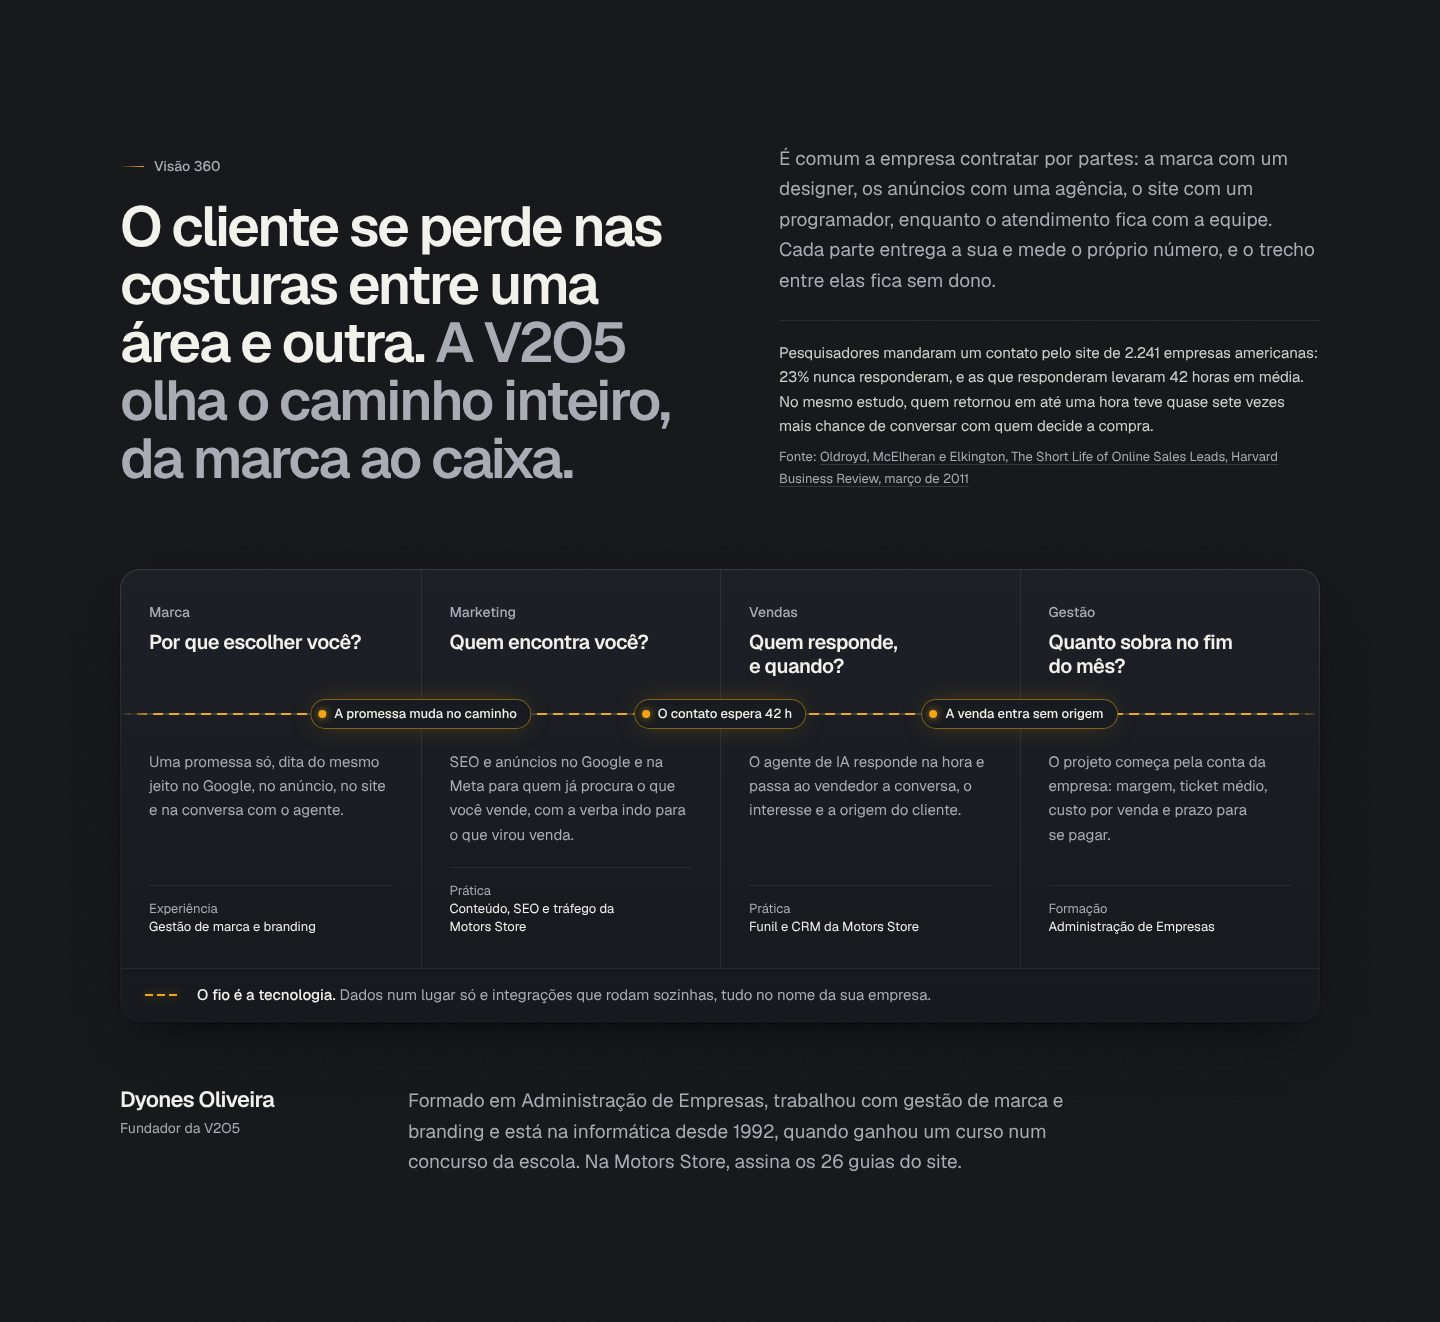
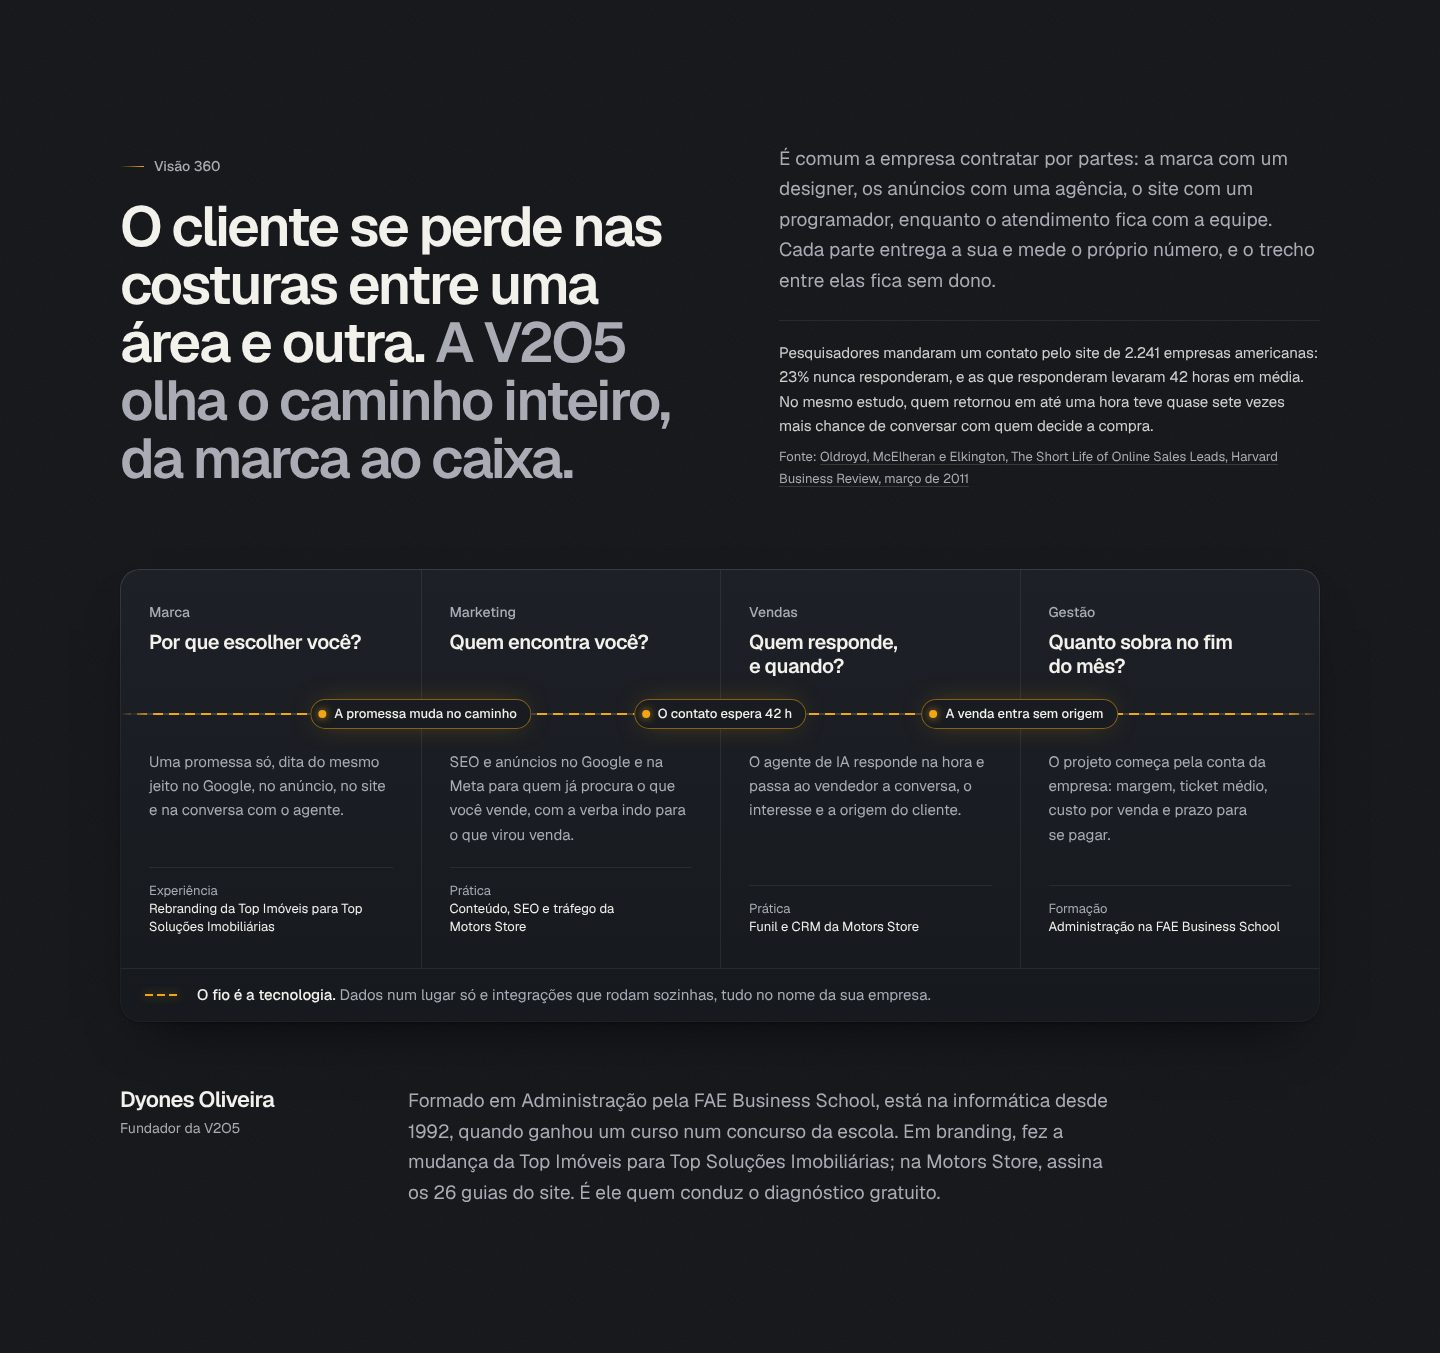
Branding a partir de R$ 1.500, FAE e o caso da Top na Visão 360
Com as respostas do Dyones: o cartão de branding ganha preço, que entra
em oferta.md. A coluna Gestão cita a formação em Administração na FAE
Business School (também como alumniOf no schema), e a coluna Marca cita
o rebranding da Top Imóveis para Top Soluções Imobiliárias. A nota do
hero, o fechamento e a página do diagnóstico passam a dizer que a
conversa é com o fundador.

Claude-Session: https://claude.ai/code/session_016U4jhnBTXDWyNvtdckLsv3

diff --git a/src/conteudo/home.ts b/src/conteudo/home.ts
@@ -17,7 +17,7 @@ export const TITULO_DA_HOME = "Coloque sua empresa no mapa e multiplique a opera
 export const HERO = {
   subtitulo:
     "Perfil no Google, SEO, anúncios, site, agente de IA e CRM num sistema só, que mostra de onde veio cada venda. Se um dia quiser sair, você leva o código, os dados e o domínio.",
-  nota: "Diagnóstico gratuito: 45 minutos de conversa e um mapa do que fazer, em até 24 horas.",
+  nota: "Diagnóstico gratuito: 45 minutos de conversa com o fundador e um mapa do que fazer, em até 24 horas.",
 };
 
 /**
@@ -131,12 +131,6 @@ export interface Servico {
   vinheta: Vinheta;
 }
 
-/**
- * Serviço do cardápio ainda sem preço na tabela: o orçamento sai do
- * diagnóstico até o Dyones fechar o valor (`memory/pendencias.md`).
- */
-export const PRECO_NO_DIAGNOSTICO = "orçamento no diagnóstico";
-
 const linha = (href: string): Servico => {
   const l = LINHAS.find((x) => x.href === href);
   if (!l) throw new Error(`Linha sem preço em oferta.md: ${href}`);
@@ -161,7 +155,7 @@ export const PILARES: { id: string; sobretitulo: string; titulo: string; frase: 
         titulo: "Branding e gestão de marca",
         frase:
           "Posicionamento, identidade visual e tom de voz, com um guia que mantém a marca igual no perfil, no site, nos anúncios e no atendimento.",
-        preco: PRECO_NO_DIAGNOSTICO,
+        preco: "a partir de R$ 1.500",
         href: "/diagnostico",
         etapa: "violeta",
         vinheta: "marca",
@@ -212,9 +206,10 @@ export const PILARES: { id: string; sobretitulo: string; titulo: string; frase: 
  * Visão 360: o cliente atravessa marca, marketing, vendas e gestão, e a venda
  * se perde nas passagens entre uma área e outra. Cada área traz a base do
  * fundador que responde por ela (formação, experiência ou prática na Motors).
- * Fatos do fundador: o que ele contou (Administração de Empresas, gestão de
- * marca e branding) e o que publicou no site antigo (curso de informática
- * ganho num concurso da escola, em 1992). O número da costura do meio vem do
+ * Fatos do fundador: o que ele contou em 09/10 (Administração na FAE
+ * Business School; rebranding da Top Imóveis para Top Soluções
+ * Imobiliárias; conduz o diagnóstico) e o que publicou no site antigo (curso
+ * de informática ganho num concurso da escola, em 1992). O número da costura do meio vem do
  * estudo da HBR em `evidencia`.
  */
 export const VISAO_360 = {
@@ -234,7 +229,7 @@ export const VISAO_360 = {
       nome: "Marca",
       pergunta: "Por que escolher você?",
       acao: "Uma promessa só, dita do mesmo jeito no Google, no anúncio, no site e na conversa com o agente.",
-      base: { tipo: "Experiência", texto: "Gestão de marca e branding" },
+      base: { tipo: "Experiência", texto: "Rebranding da Top Imóveis para Top Soluções Imobiliárias" },
     },
     {
       nome: "Marketing",
@@ -252,7 +247,7 @@ export const VISAO_360 = {
       nome: "Gestão",
       pergunta: "Quanto sobra no fim do mês?",
       acao: "O projeto começa pela conta da empresa: margem, ticket médio, custo por venda e prazo para se pagar.",
-      base: { tipo: "Formação", texto: "Administração de Empresas" },
+      base: { tipo: "Formação", texto: "Administração na FAE Business School" },
     },
   ],
   /** O que costuma romper na passagem de uma área para a seguinte. */
@@ -265,7 +260,8 @@ export const VISAO_360 = {
     nome: "Dyones Oliveira",
     papel: "Fundador da V2O5",
     texto:
-      "Formado em Administração de Empresas, trabalhou com gestão de marca e branding e está na informática desde 1992, quando ganhou um curso num concurso da escola. Na Motors Store, assina os 26 guias do site.",
+      "Formado em Administração pela FAE Business School, está na informática desde 1992, quando ganhou um curso num concurso da escola. Em branding, fez a mudança da Top Imóveis para Top Soluções Imobiliárias; na Motors Store, assina os 26 guias do site. É ele quem conduz o diagnóstico gratuito.",
+    escola: "FAE Business School",
   },
 };
 

diff --git a/tests/conteudo.test.ts b/tests/conteudo.test.ts
@@ -5,7 +5,6 @@ import {
   HERO,
   LINHAS,
   PILARES,
-  PRECO_NO_DIAGNOSTICO,
   TITULO_DA_HOME,
   VISAO_360,
 } from "@/conteudo/home";
@@ -80,15 +79,10 @@ describe("os dois pilares do H1", () => {
     for (const l of LINHAS) expect(servicos, l.titulo).toContainEqual(l);
   });
 
-  it("serviço sem linha própria diz onde vem incluso, traz preço da tabela ou está nas pendências", () => {
+  it("serviço sem linha própria diz onde vem incluso ou traz preço da tabela", () => {
     const oferta = ler("memory/context/oferta.md");
-    const pendencias = ler("memory/pendencias.md");
     for (const s of servicos.filter((s) => !LINHAS.includes(s as (typeof LINHAS)[number]))) {
-      if (s.preco === PRECO_NO_DIAGNOSTICO) {
-        // Sem preço inventado: o valor fica pendente com o Dyones até entrar em oferta.md.
-        expect(pendencias, s.titulo).toContain(s.titulo);
-        expect(s.href, s.titulo).toBe("/diagnostico");
-      } else if (/incluso em /.test(s.preco)) {
+      if (/incluso em /.test(s.preco)) {
         const linha = s.preco.split("incluso em ")[1];
         expect(LINHAS.map((l) => l.titulo), s.titulo).toContain(linha);
       } else {
@@ -101,6 +95,7 @@ describe("os dois pilares do H1", () => {
   it("o mapa traz branding, Perfil da Empresa no Google, SEO e tráfego no Google e na Meta", () => {
     const mapa = PILARES[0].servicos.map((s) => s.titulo).join(" | ");
     expect(mapa).toMatch(/Branding e gestão de marca/);
+    expect(PILARES[0].servicos[0].preco).toBe("a partir de R$ 1.500");
     expect(mapa).toMatch(/Perfil da Empresa no Google/);
     expect(mapa).toMatch(/SEO/);
     expect(mapa).toMatch(/Google e na Meta/);
@@ -116,19 +111,21 @@ describe("os dois pilares do H1", () => {
 });
 
 describe("Visão 360", () => {
-  it("o fundador aparece com o que ele contou e publicou: Administração, branding, 1992 e os guias da Motors", () => {
-    const { texto } = VISAO_360.fundador;
-    expect(texto).toMatch(/Administração de Empresas/);
-    expect(texto).toMatch(/gestão de marca e branding/);
+  it("o fundador aparece com o que ele contou e publicou: FAE, a Top, 1992, os guias e o diagnóstico", () => {
+    const { texto, escola } = VISAO_360.fundador;
+    expect(escola).toBe("FAE Business School");
+    expect(texto).toContain(`Administração pela ${escola}`);
+    expect(texto).toMatch(/Top Imóveis para Top Soluções Imobiliárias/);
     expect(texto).toMatch(/desde 1992/);
     expect(texto).toMatch(/26 guias/);
+    expect(texto).toMatch(/conduz o diagnóstico/);
     expect(ler("memory/projects/case-motors.md")).toMatch(/\| Guias publicados \| 26 \|/);
   });
 
-  it("cada área traz a base do fundador, e a formação em Administração responde pela gestão", () => {
+  it("cada área traz a base do fundador, e a formação na FAE responde pela gestão", () => {
     expect(VISAO_360.areas.map((a) => a.nome)).toEqual(["Marca", "Marketing", "Vendas", "Gestão"]);
     for (const a of VISAO_360.areas) expect(["Formação", "Experiência", "Prática"]).toContain(a.base.tipo);
-    expect(VISAO_360.areas[3].base).toEqual({ tipo: "Formação", texto: "Administração de Empresas" });
+    expect(VISAO_360.areas[3].base).toEqual({ tipo: "Formação", texto: "Administração na FAE Business School" });
     expect(VISAO_360.costuras).toHaveLength(VISAO_360.areas.length - 1);
   });
 

diff --git a/src/components/home/Fechamento.tsx b/src/components/home/Fechamento.tsx
@@ -21,7 +21,7 @@ export default function Fechamento() {
           Comece pelo diagnóstico.
         </h2>
         <p className="texto-guia mt-6 max-w-[36rem]">
-          Em 45 minutos a gente entende como a sua empresa vende hoje. Em até 24 horas você recebe um mapa do
+          Em 45 minutos de conversa com o fundador, a gente entende como a sua empresa vende hoje. Em até 24 horas você recebe um mapa do
           que fazer primeiro, com ou sem a V2O5.
         </p>
         <div className="mt-10 flex flex-wrap justify-center gap-3">

diff --git a/src/conteudo/paginas.ts b/src/conteudo/paginas.ts
@@ -105,7 +105,7 @@ export const PAGINAS: Pagina[] = [
     rota: "/diagnostico",
     titulo: "Pedir diagnóstico",
     descricao:
-      "45 minutos de conversa e um mapa do que fazer, em até 24 horas. O formulário entra na próxima etapa.",
+      "45 minutos de conversa com o fundador e um mapa do que fazer, em até 24 horas. O formulário entra na próxima etapa.",
     atualizadaEm: "2026-10-09",
     pronta: false,
   },

diff --git a/src/lib/schema.ts b/src/lib/schema.ts
@@ -49,6 +49,7 @@ export function fundador(): No {
     name: VISAO_360.fundador.nome,
     jobTitle: "Fundador",
     description: VISAO_360.fundador.texto,
+    alumniOf: { "@type": "CollegeOrUniversity", name: VISAO_360.fundador.escola },
     knowsAbout: ["Administração de empresas", "Gestão de marca", "Branding", "Marketing digital", "Automação com IA"],
     worksFor: ref(ID_DA_ORGANIZACAO),
   };

diff --git a/memory/pendencias.md b/memory/pendencias.md
@@ -13,8 +13,8 @@ Atualize ao resolver: mova a decisão para `decisoes.md` e apague daqui.
 8. Medir o preview da Vercel (PageSpeed): ele está atrás do login da Vercel. Liberar um bypass de proteção para automação ou dar ao conector acesso ao projeto `v2o5`. Ver também a molécula 3D num celular e num notebook comuns (o ambiente daqui só tem WebGL por software); com `?diagnostico` no fim da URL aparece o motivo se ela não rodar.
 9. WhatsApp e e-mail públicos para o rodapé (hoje "a confirmar").
 10. Proposta: "Pergunte ao agente" no hero, uma conversa real com o agente da V2O5 (a demonstração do próprio produto). Precisa de backend, custo de IA e aviso de privacidade; fase 2.
-11. Sobre o Dyones, para a Visão 360 e a página Sobre: instituição e ano da formação em Administração de Empresas, onde trabalhou com gestão de marca e branding, e uma foto. Confirmar também se é ele quem conduz o diagnóstico (daria força à seção).
-12. Preço de "Branding e gestão de marca" (no cardápio desde 09/10 como "orçamento no diagnóstico", link para `/diagnostico`). E SEO contínuo e Perfil da Empresa avulsos (sem site da V2O5): publicar preço próprio? Hoje aparecem como inclusos em Sites e presença. Se virarem linha, ganham página (`/branding`, `/seo`, `/perfil-da-empresa-no-google`) no mapa de páginas.
+11. Foto do Dyones para a página Sobre, a Visão 360 e a assinatura dos guias. Confirmar que a Top Soluções Imobiliárias não se opõe a ser citada (o nome aparece na Visão 360 desde 09/10).
+12. SEO contínuo e Perfil da Empresa avulsos (sem site da V2O5): publicar preço próprio? Hoje aparecem como inclusos em Sites e presença. Página própria para Branding (hoje o cartão leva a `/diagnostico`), e para SEO e Perfil se virarem linha (`/branding`, `/seo`, `/perfil-da-empresa-no-google`), depois do Planejador de Palavras-chave.
 
 ## Técnicas
 - LCP da home: mediana 2,19 s no Lighthouse simulado (7 rodadas, igual antes e depois do refino visual), critério é 2,0 s. O que sobra antes do LCP é quase todo o JS do Next/React (138 KB gz). Medir no preview da Vercel antes de cortar mais.

diff --git a/memory/decisoes.md b/memory/decisoes.md
@@ -2,6 +2,11 @@
 
 Log datado. Decisão nova entra no topo do dia; decisão revogada fica riscada com a data da troca.
 
+## 09/10/2026 (respostas do Dyones para a Visão 360 e o branding)
+- Branding e gestão de marca: a partir de R$ 1.500 (por projeto, sem mensalidade). Entrou em `oferta.md`; o cartão continua levando a `/diagnostico` até existir página própria.
+- Fundador: Administração pela FAE Business School (no texto, na coluna Gestão e no schema como `alumniOf`); caso de branding: a mudança da Top Imóveis para Top Soluções Imobiliárias (coluna Marca e texto do fundador); é ele quem conduz o diagnóstico (texto do fundador, nota do hero, fechamento e página `/diagnostico`: "45 minutos de conversa com o fundador").
+- A busca na web não achou a Top Soluções Imobiliárias pelo nome; a grafia é a do Dyones.
+
 ## 09/10/2026 (Visão 360 refeita e branding no cardápio, depois do "ficou amadora" do Dyones)
 - Visão 360 com conceito próprio: "O cliente se perde nas costuras entre uma área e outra. A V2O5 olha o caminho inteiro, da marca ao caixa." Quatro áreas (Marca, Marketing, Vendas, Gestão), cada uma com a pergunta que o dono faz, o que a V2O5 faz e a base do fundador que responde por ela (Experiência: gestão de marca e branding; Prática: conteúdo, SEO e tráfego da Motors; Prática: funil e CRM da Motors; Formação: Administração de Empresas). Entre as áreas, o que costuma romper: a promessa muda, o contato espera 42 h, a venda entra sem origem. Um fio âmbar em pesponto costura tudo (legenda: "O fio é a tecnologia").
 - O anel de seis arcos e o círculo "DO" saíram (pareciam amadores, pelo Dyones).

diff --git a/memory/context/oferta.md b/memory/context/oferta.md
@@ -9,8 +9,9 @@
 | CRM e sistemas sob medida | `/crm-com-whatsapp` | R$ 4.900 | R$ 590 |
 | Rastreamento até a venda | `/rastreamento-de-conversoes` | R$ 2.900 | R$ 290 |
 | Gestão de tráfego | `/gestao-de-trafego` | sem implantação com rastreamento ativo | R$ 1.800 + verba |
+| Branding e gestão de marca | sem página ainda (cartão leva a `/diagnostico`) | R$ 1.500 (por projeto) | |
 
-Na home, as linhas se dividem nos dois pilares do H1 (mapa: sites, tráfego, rastreamento; operação: agente, automação, CRM). Perfil da Empresa no Google e SEO técnico aparecem como cartões "incluso em Sites e presença"; Integrações entre sistemas, como cartão com o preço da automação por fluxo. Branding e gestão de marca está no cardápio (pelo Dyones, 09/10) sem preço publicado: "orçamento no diagnóstico" até o valor entrar nesta tabela.
+Na home, as linhas se dividem nos dois pilares do H1 (mapa: sites, tráfego, rastreamento; operação: agente, automação, CRM). Perfil da Empresa no Google e SEO técnico aparecem como cartões "incluso em Sites e presença"; Integrações entre sistemas, como cartão com o preço da automação por fluxo. Branding e gestão de marca entrou no cardápio em 09/10, a partir de R$ 1.500 (valor do Dyones; tratado como projeto, sem mensalidade).
 
 ## Segmento automotivo
 | Item | Implantação | Mensalidade |

diff --git a/memory/glossary.md b/memory/glossary.md
@@ -7,7 +7,8 @@ Tudo que aparece abreviado nas conversas do projeto. O que é usado toda hora ta
 |---|---|
 | V2O5 | V2O5 Vendas e Tecnologia (nome fantasia); razão social V2O5 Tecnologia da Informação Ltda.; CNPJ 68.490.470/0001-14 |
 | ConsultorIA | Nome antigo/trocadilho; fica só como `alternateName` no schema |
-| Dyones | Dyones Oliveira, fundador da V2O5; formado em Administração de Empresas, com experiência em gestão de marca e branding; na informática desde 1992 (curso ganho num concurso da escola); assina os guias da Motors |
+| Dyones | Dyones Oliveira, fundador da V2O5; Administração pela FAE Business School; branding (caso: Top Imóveis → Top Soluções Imobiliárias); na informática desde 1992 (curso ganho num concurso da escola); assina os guias da Motors; conduz o diagnóstico |
+| Top | Top Imóveis, hoje Top Soluções Imobiliárias: caso de rebranding do Dyones citado na Visão 360 |
 | Motors | Motors Store, revenda de seminovos no Bacacheri, Curitiba; cliente e case |
 | Costuras | Conceito da Visão 360: a venda se perde na passagem entre marca, marketing, vendas e gestão; o fio âmbar (tecnologia) costura as quatro |
 
